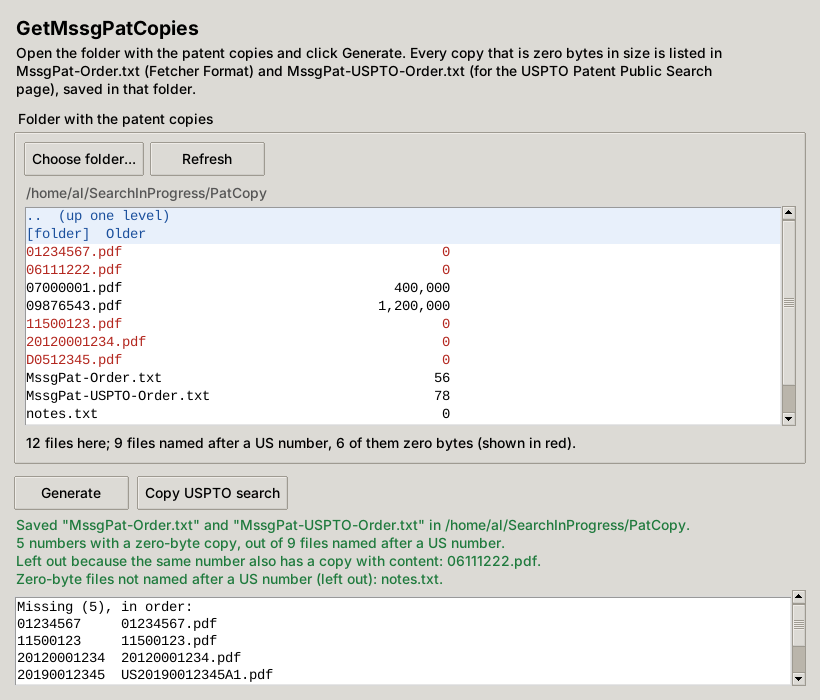
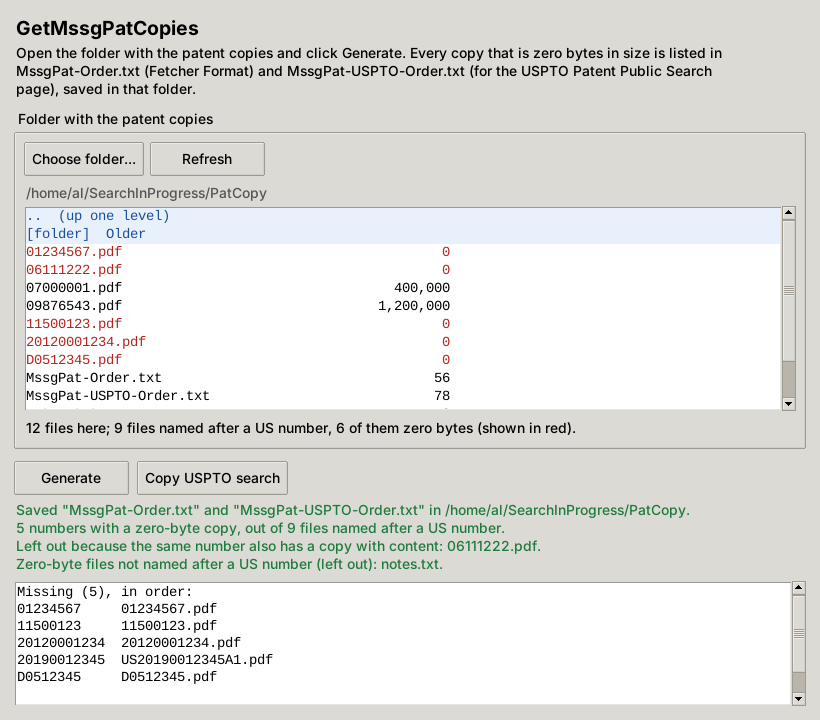
Split long USPTO searches; tested on Patent Public Search
Tested on the live Patent Public Search site: the number forms the program
writes (7 characters with leading zeros and letter prefixes counting towards
the 7, longer numbers whole, 11-digit publications) find every kind of
document, and other spellings find nothing. The site refuses a search whose
request is 8 KB or more (about 130 publications or 165 patents in a line),
so MssgPat-USPTO-Order.txt now holds one search per line when the list is
too long for one, each to be pasted and searched on its own, and the
window's copy button steps through them. The README says what was tested
and how to read the results; the window keeps the result in view when it
is small.

Claude-Session: https://claude.ai/code/session_019ycYtoU48m7oHYtAiozT5t

Changed region(s): [[0.0, 0.03, 1.0, 0.99]]

diff --git a/GetMssgPatCopies.py b/GetMssgPatCopies.py
@@ -16,8 +16,10 @@ window; otherwise it asks its questions in the terminal.
 
 Files it writes, in the chosen folder:
     MssgPat-Order.txt        the missing numbers, one per line (Fetcher Format, Windows line endings)
-    MssgPat-USPTO-Order.txt  one line for the USPTO Patent Public Search box:
+    MssgPat-USPTO-Order.txt  a search for the USPTO Patent Public Search box:
                              ("9123456" or "20020123457").pn.
+                             (one line; a long list is split into several lines,
+                             each one search, because the site refuses longer searches)
 """
 
 import argparse
@@ -34,6 +36,13 @@ DESCRIPTION = ('GetMssgPatCopies finds the patent copies in a folder that are ze
 
 ORDER_NAME = 'MssgPat-Order.txt'
 USPTO_NAME = 'MssgPat-USPTO-Order.txt'
+
+# Patent Public Search refuses (HTTP 403) a search whose request is 8 KB or more. The request holds
+# the search three times with each quote escaped, so on 13 October 2026 a line worked up to
+# len(line) + number of quotes = 2481 (130 published applications, 154 patents of 8 digits or 165 of
+# 7 characters) and no further. The site's own settings travel in the same request, so lines are
+# kept to 2300.
+SEARCH_LIMIT = 2300
 
 # ---------------------------------------------------------------------------
 # CORE-START  (pure logic, no user interface; number rules as in PatCopyPrint)
@@ -106,9 +115,33 @@ def order_text(canons):
     return ''.join(c + '\r\n' for c in canons)
 
 
+def search_line(terms):
+    return '(' + ' or '.join(terms) + ').pn.'
+
+
+def uspto_searches(canons):
+    """The searches for the search box, in the order given: ("9123456" or "20020123457").pn.
+
+    One line when the numbers fit in one search, otherwise as many lines as needed, each
+    within SEARCH_LIMIT and each searched on its own. A line holds 120 published applications,
+    143 patents of 8 digits or 153 of 7 characters (older patents, D, RE, PP, H).
+    """
+    lines, terms = [], []
+    for c in canons:
+        term = '"%s"' % uspto_number(c)
+        line = search_line(terms + [term])
+        if terms and len(line) + line.count('"') > SEARCH_LIMIT:
+            lines.append(search_line(terms))
+            terms = []
+        terms.append(term)
+    if terms:
+        lines.append(search_line(terms))
+    return lines
+
+
 def uspto_text(canons):
-    """One line for the search box: ("9123456" or "20020123457").pn."""
-    return '(' + ' or '.join('"%s"' % uspto_number(c) for c in canons) + ').pn.\r\n'
+    """MssgPat-USPTO-Order.txt: the searches, one per line, Windows line endings."""
+    return ''.join(line + '\r\n' for line in uspto_searches(canons))
 
 
 def survey(entries, year):
@@ -217,6 +250,7 @@ class Job(object):
         self.year = year or datetime.date.today().year
         self.result = survey(list_folder(self.folder)[1], self.year)
         missing = self.result['missing']
+        self.searches = uspto_searches(missing)
         self.files = [(ORDER_NAME, order_text(missing)), (USPTO_NAME, uspto_text(missing))] if missing else []
 
     def existing(self):
@@ -234,6 +268,10 @@ class Job(object):
             lines.append('Saved "%s" and "%s" in %s.' % (ORDER_NAME, USPTO_NAME, self.folder))
             lines.append('%s with a zero-byte copy, out of %s named after a US number.'
                          % (plural(len(r['missing']), 'number'), plural(r['copies'], 'file')))
+            if len(self.searches) > 1:
+                lines.append('Too many numbers for one USPTO search, so %s has %d lines: paste and search them '
+                             'one at a time (pasted together they make one search, which the site refuses).'
+                             % (USPTO_NAME, len(self.searches)))
         elif r['copies']:
             lines.append('None of the %s named after a US number is zero bytes; nothing was saved.'
                          % plural(r['copies'], 'file'))
@@ -252,8 +290,10 @@ class Job(object):
         """The numbers found and the two files' contents, for the details area."""
         r = self.result
         rows = ['%-12s %s' % (c, ', '.join(r['files'][c])) for c in r['missing']]
+        searches = '\n\n'.join(self.searches) if len(self.searches) == 1 else '\n\n'.join(
+            'Search %d of %d:\n%s' % (i + 1, len(self.searches), s) for i, s in enumerate(self.searches))
         return ('Missing (%d), in order:\n%s\n\n%s:\n%s'
-                % (len(rows), '\n'.join(rows), USPTO_NAME, uspto_text(r['missing']).rstrip()))
+                % (len(rows), '\n'.join(rows), USPTO_NAME, searches))
 
 
 def plural(n, word):
@@ -387,16 +427,18 @@ def run_gui(args, cfg):
                     ttk.Style().theme_use('clam')
                 except tk.TclError:
                     pass
-            self.minsize(760, 560)
-            if cfg.get('geometry'):
-                try:
-                    self.geometry(cfg.get('geometry'))
-                except tk.TclError:
-                    pass
+            self.minsize(760, 640)
+            try:
+                self.geometry(cfg.get('geometry') or '%dx%d' % (min(840, self.winfo_screenwidth() - 40),
+                                                                min(760, self.winfo_screenheight() - 80)))
+            except tk.TclError:
+                pass
             self.protocol('WM_DELETE_WINDOW', self.close)
             self.folder = None
             self.entries = []       # (kind, full path) for each listbox line
-            self.search = ''        # the USPTO line of the last run
+            self.searches = []      # the USPTO search lines of the last run
+            self.next_search = 0    # the one the copy button copies next
+            self.done_text = ''
             self.build()
             folder = start_folder or cfg.get('folder')
             self.open_folder(folder if folder and os.path.isdir(folder) else os.getcwd())
@@ -411,6 +453,10 @@ def run_gui(args, cfg):
                                   'Patent Public Search page), saved in that folder.' % (ORDER_NAME, USPTO_NAME),
                       wraplength=720, justify='left').pack(anchor='w', pady=(0, 10))
 
+            # The buttons, the result and the details are packed first, at the bottom, so that in a small
+            # window the file list gives up the room, never the result.
+            bottom = ttk.Frame(outer)
+            bottom.pack(side='bottom', fill='x')
             box = ttk.LabelFrame(outer, text=' Folder with the patent copies ', padding=8)
             box.pack(fill='both', expand=True)
             row = ttk.Frame(box)
@@ -419,6 +465,8 @@ def run_gui(args, cfg):
             ttk.Button(row, text='Refresh', command=self.refresh).pack(side='left', padx=6)
             self.path_label = ttk.Label(box, text='', wraplength=700, justify='left', foreground='#555555')
             self.path_label.pack(anchor='w', pady=(6, 2))
+            self.count_label = ttk.Label(box, text='', wraplength=700, justify='left')
+            self.count_label.pack(side='bottom', anchor='w', pady=(6, 0))
             lb_frame = ttk.Frame(box)
             lb_frame.pack(fill='both', expand=True)
             self.listbox = tk.Listbox(lb_frame, height=12, exportselection=False, activestyle='none', font=MONO)
@@ -431,21 +479,22 @@ def run_gui(args, cfg):
             self.listbox.pack(side='left', fill='both', expand=True)
             self.listbox.bind('<<ListboxSelect>>', self.on_pick)
             self.listbox.bind('<Return>', self.on_pick)
-            self.count_label = ttk.Label(box, text='', wraplength=700, justify='left')
-            self.count_label.pack(anchor='w', pady=(6, 0))
 
-            actions = ttk.Frame(outer)
+            actions = ttk.Frame(bottom)
             actions.pack(fill='x', pady=(12, 4))
             self.generate_btn = ttk.Button(actions, text='Generate', command=self.generate)
             self.generate_btn.pack(side='left')
             self.copy_btn = ttk.Button(actions, text='Copy USPTO search', command=self.copy_search)
             self.copy_btn.pack(side='left', padx=8)
             self.copy_btn.state(['disabled'])
-            self.status = ttk.Label(outer, text='', wraplength=720, justify='left')
+            self.status = ttk.Label(bottom, text='', wraplength=720, justify='left')
             self.status.pack(anchor='w')
-            self.details = tk.Text(outer, height=8, font=MONO, wrap='char', state='disabled')
-            self.details_bar = ttk.Scrollbar(outer, orient='vertical', command=self.details.yview)
-            self.details.configure(yscrollcommand=self.details_bar.set)
+            self.details_frame = ttk.Frame(bottom)
+            self.details = tk.Text(self.details_frame, height=7, font=MONO, wrap='char', state='disabled')
+            bar = ttk.Scrollbar(self.details_frame, orient='vertical', command=self.details.yview)
+            self.details.configure(yscrollcommand=bar.set)
+            bar.pack(side='right', fill='y')
+            self.details.pack(side='left', fill='both', expand=True)
 
         # -- folder browsing --
         def choose_folder(self):
@@ -466,6 +515,7 @@ def run_gui(args, cfg):
                 self.hide_details()
                 self.set_status('')
                 self.copy_btn.state(['disabled'])
+                self.copy_btn.configure(text='Copy USPTO search')
             self.folder = folder
             self.cfg.set('folder', folder)
             self.cfg.save()
@@ -518,16 +568,15 @@ def run_gui(args, cfg):
             self.details.delete('1.0', 'end')
             self.details.insert('1.0', text)
             self.details.configure(state='disabled')
-            self.details_bar.pack(side='right', fill='y')
-            self.details.pack(fill='both', expand=True, pady=(6, 0))
+            self.details_frame.pack(fill='x', pady=(6, 0))
 
         def hide_details(self):
-            self.details.pack_forget()
-            self.details_bar.pack_forget()
+            self.details_frame.pack_forget()
 
         def generate(self):
             self.hide_details()
             self.copy_btn.state(['disabled'])
+            self.copy_btn.configure(text='Copy USPTO search')
             try:
                 job = Job(self.folder)
                 existing = job.existing()
@@ -543,16 +592,26 @@ def run_gui(args, cfg):
             self.done_text = '\n'.join(job.summary())
             self.set_status(self.done_text, 'ok' if job.files else 'warn')
             if job.files:
-                self.search = uspto_text(job.result['missing']).rstrip()
+                self.searches = job.searches
+                self.next_search = 0
+                self.label_copy_btn()
                 self.copy_btn.state(['!disabled'])
                 self.show_details(job.details())
             self.refresh()
 
+        def label_copy_btn(self):
+            n = len(self.searches)
+            self.copy_btn.configure(text='Copy USPTO search' if n == 1 else
+                                    'Copy USPTO search %d of %d' % (self.next_search + 1, n))
+
         def copy_search(self):
+            i, n = self.next_search, len(self.searches)
             self.clipboard_clear()
-            self.clipboard_append(self.search)
-            self.set_status(self.done_text + '\nCopied the USPTO search; paste it into the Patent Public Search box.',
-                            'ok')
+            self.clipboard_append(self.searches[i])
+            self.set_status(self.done_text + '\nCopied the USPTO search%s; paste it into the Patent Public Search box '
+                            'and click Search.' % ('' if n == 1 else ' %d of %d' % (i + 1, n)), 'ok')
+            self.next_search = (i + 1) % n
+            self.label_copy_btn()
 
         def close(self):
             try:

diff --git a/test_getmssgpatcopies.py b/test_getmssgpatcopies.py
@@ -71,6 +71,31 @@ class Formats(unittest.TestCase):
         self.assertEqual(g.uspto_text(['01234567', '20120001234']), '("1234567" or "20120001234").pn.\r\n')
         self.assertEqual(g.uspto_text(['01234567']), '("1234567").pn.\r\n')
 
+    def test_long_lists_are_split(self):
+        # The site refused searches above len(line) + quotes = 2481; lines are kept to 2300.
+        def cost(line):
+            return len(line) + line.count('"')
+        patents = ['%08d' % n for n in range(9000000, 9000400)]
+        pubs = ['2015%07d' % n for n in range(1, 400)]
+        self.assertEqual(len(g.uspto_searches(patents[:153])), 1)    # 7-character numbers: 153 fit
+        self.assertEqual(len(g.uspto_searches(patents[:154])), 2)
+        self.assertEqual(len(g.uspto_searches(pubs[:120])), 1)       # published applications: 120 fit
+        self.assertEqual(len(g.uspto_searches(pubs[:121])), 2)
+        new = ['%08d' % n for n in range(10000000, 10000200)]
+        self.assertEqual(len(g.uspto_searches(new[:143])), 1)         # 8-digit patents: 143 fit
+        self.assertEqual(len(g.uspto_searches(new[:144])), 2)
+        mixed = g.sort_canons(patents + pubs + ['D%07d' % n for n in range(512000, 512300)])
+        lines = g.uspto_searches(mixed)
+        self.assertEqual(len(lines), 8)
+        terms = []
+        for line in lines:
+            self.assertLessEqual(cost(line), g.SEARCH_LIMIT)
+            self.assertTrue(line.startswith('("') and line.endswith('").pn.'), line[:20])
+            terms += line[2:-6].split('" or "')
+        self.assertEqual(terms, [g.uspto_number(c) for c in mixed])   # every number once, in order
+        self.assertEqual(g.uspto_text(mixed), ''.join(l + '\r\n' for l in lines))
+        self.assertEqual(g.uspto_searches([]), [])
+
 
 class Folder(unittest.TestCase):
     def setUp(self):
@@ -130,6 +155,17 @@ class Folder(unittest.TestCase):
         self.assertIn('4 numbers with a zero-byte copy', out)
         self.assertIn('("1234567" or "20120001234" or "20190012345" or "D512345").pn.', out)
         self.assertTrue(os.path.exists(os.path.join(self.dir, g.ORDER_NAME)))
+
+    def test_many_missing(self):
+        for n in range(200):
+            open(os.path.join(self.dir, '%d.pdf' % (8000000 + n)), 'wb').close()
+        job = g.Job(self.dir, year=YEAR)
+        self.assertEqual(len(job.result['missing']), 204)
+        self.assertEqual(len(job.searches), 2)
+        self.assertIn('2 lines', ' '.join(job.summary()))
+        self.assertIn('Search 2 of 2:', job.details())
+        job.write()
+        self.assertEqual(self.read(g.USPTO_NAME).decode('ascii').split('\r\n'), job.searches + [''])
 
 
 if __name__ == '__main__':

diff --git a/README.md b/README.md
@@ -7,7 +7,7 @@ so they can be fetched again:
 | File | Contents |
 |---|---|
 | `MssgPat-Order.txt` | Fetcher Format: one number per line, Windows line endings, in the standard form PatCopyPrint uses (`01234567`, `20120001234`, `D0512345`) |
-| `MssgPat-USPTO-Order.txt` | One line to paste into the [USPTO Patent Public Search](https://ppubs.uspto.gov/pubwebapp/) box: `("1234567" or "20120001234" or "D512345").pn.` |
+| `MssgPat-USPTO-Order.txt` | One line to paste into the [USPTO Patent Public Search](https://ppubs.uspto.gov/pubwebapp/) box: `("1234567" or "20120001234" or "D512345").pn.` (a list too long for one search is split into several lines, one search each; see [The USPTO search](#the-uspto-search)) |
 
 Both lists are in the same order, the sorted order of PatCopyPrint and RemoveDupNumbers: patents by
 number, then published applications by number, then D, H, PP, RE and the other letter prefixes.
@@ -39,9 +39,11 @@ The last folder is remembered in `.getmssgpatcopies.json` in your home folder.
    around. The folder whose contents are shown is the one that will be read. Zero-byte patent
    copies are shown in red.
 2. Click **Generate**. If the two files are already in the folder you are asked once before they
-   are replaced. The result is shown below the button with the numbers found and the USPTO line.
-3. **Copy USPTO search** puts the USPTO line on the clipboard. On the Patent Public Search page
-   close the *Notification* pop-up, paste the line into the search box and search.
+   are replaced. The result is shown below the button with the numbers found and the USPTO search.
+3. **Copy USPTO search** puts the USPTO search on the clipboard. On the Patent Public Search page
+   close the *Notification* pop-up, paste it into the search box and click **Search**. When the
+   search has been split, the button reads **Copy USPTO search 1 of 3**; each click copies the
+   next one.
 
 ## Using the terminal
 
@@ -69,13 +71,45 @@ patent copy when its name without the extension is a US number in any of these s
   and named in the result.
 - If no patent copy is zero bytes, nothing is written.
 
-The numbers in the USPTO line follow the Patent Public Search rule for patent numbers: seven
-characters, with leading zeros where needed and a letter prefix counting towards the seven
-(`D512345`, `RE45678`, `PP12345`); patents with eight digits and published applications (11 digits)
-are written in full. The line ends with `.pn.` (with the final period) so that the search finds
-the documents themselves, not the documents that cite them.
+## The USPTO search
+
+Everything below was tested on the live Patent Public Search site on 13 October 2026.
+
+**Number spellings.** A `.pn.` search finds a document only when the number is spelled exactly the
+way the site stores it, and that is what the program writes:
+
+- patents below 10,000,000: seven digits with leading zeros (`"9123456"`, `"0012345"`, `"0000001"`);
+- patents from 10,000,000 on: all eight digits (`"10123456"`, `"12700000"`);
+- published applications: all 11 digits (`"20120001234"`); this finds A1, A2, A9 and P1 publications alike;
+- letter prefixes: seven characters with the letters counting towards the seven (`"D512345"`,
+  `"D000126"`, `"PP12345"`, `"RE45678"`, `"H001234"`, `"T876006"`, `"X000001"`, `"AI00100"`), and
+  longer numbers in full (`"D1012345"`).
+
+Any other spelling (`"09123456"`, `"12345"`, `"2012001234"`, `"2012/0001234"`, `"D0512345"`,
+`"US9123456"`, `"9123456B2"`) finds nothing; it never finds a wrong document. A number the site
+does not have (such as 12,345,678, or the many X numbers missing from it) is simply not found;
+the other numbers in the search are still found. RD documents are not on the site at all.
+
+The search ends in `.pn.` with the final period. Without it the site searches every field and
+returns the patents that cite these numbers as well.
+
+**Long lists.** The site refuses a search whose request is 8 KB or more: 131 published
+applications, 155 patents of 8 digits or 166 older patents in one line. It then shows *Unable to
+process your request, please try again later* (sometimes after an "N results found" count) and
+lists nothing; trying again does not help. So the program keeps a little below that and puts at
+most 120 published applications, 143 patents of 8 digits or 153 older patents (or D, RE, PP, H
+numbers) in one line. When there are more it writes several lines, each a complete search in the
+same format.
+Paste and search **one line at a time**: lines pasted together run as one search, which is too
+long.
+
+**Reading the results.** The results are listed newest first, not in the order of the search.
+Old patents (before 1976) are listed twice, from the USPAT and USOCR databases, so the "results
+found" count can be higher than the number of documents. A published application and the patent
+granted on it are one family: the second shows only as a **+1** button on the first one's row.
+
 
 ## Tests
 
 `python3 test_getmssgpatcopies.py` checks the file-name rules, the sort order, the two file
-formats, a run over a sample folder and the command line.
+formats, the splitting of long USPTO searches, a run over a sample folder and the command line.
